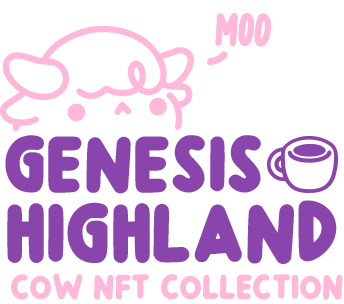
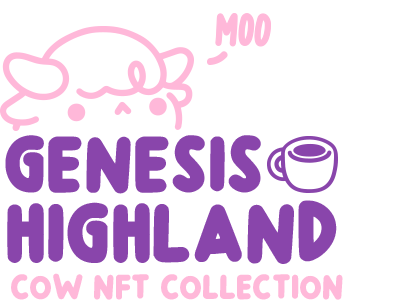
update images

diff --git a/pages/index.tsx b/pages/index.tsx
@@ -67,7 +67,7 @@ const Home: NextPage = () => {
           <div className="section-container mx-auto grid max-w-screen-2xl grid-cols-1 items-center justify-center px-10 sm:px-16 md:grid-cols-3 2xl:px-0">
             <div className="left-container bg-gray-100">
               <div className="container-image">
-                <div className="w-88">
+                <div className="w-96">
                   <Image src={genesisHighland} layout="responsive" alt="FAQ" />
                 </div>
               </div>
@@ -116,7 +116,7 @@ const Home: NextPage = () => {
           <div className="section-container mx-auto grid max-w-screen-2xl grid-cols-1 items-center justify-center px-10 sm:px-16 md:grid-cols-3 2xl:px-0">
             <div className="left-container bg-gray-100">
               <div className="container-image">
-                <div className="w-88">
+                <div className="w-96">
                   <Image src={phase2Brewing} layout="responsive" alt="FAQ" />
                 </div>
               </div>
